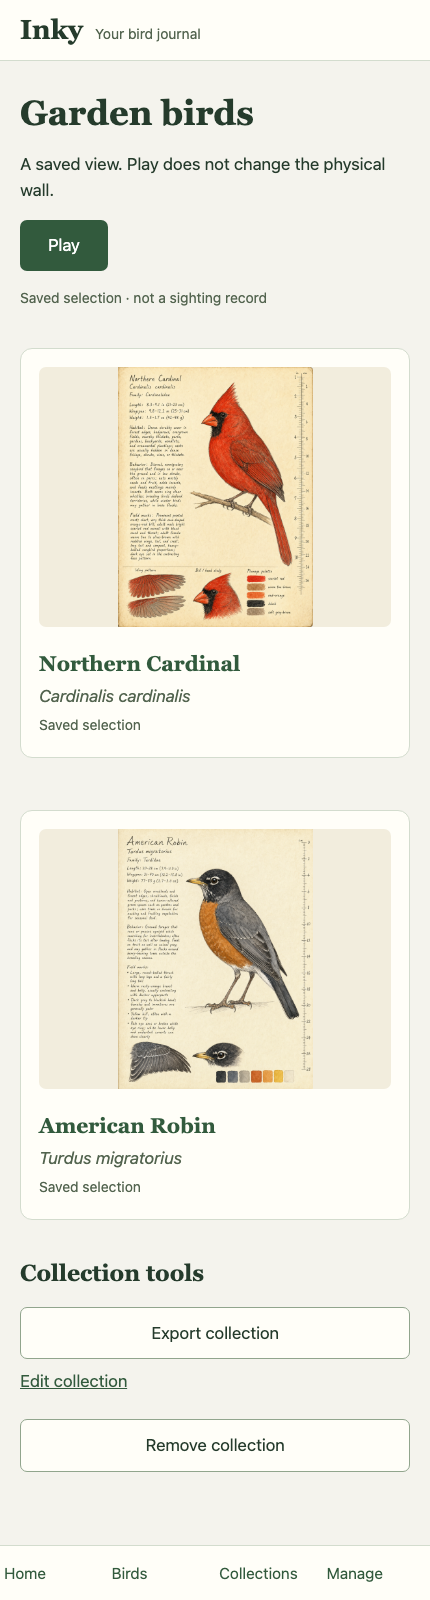
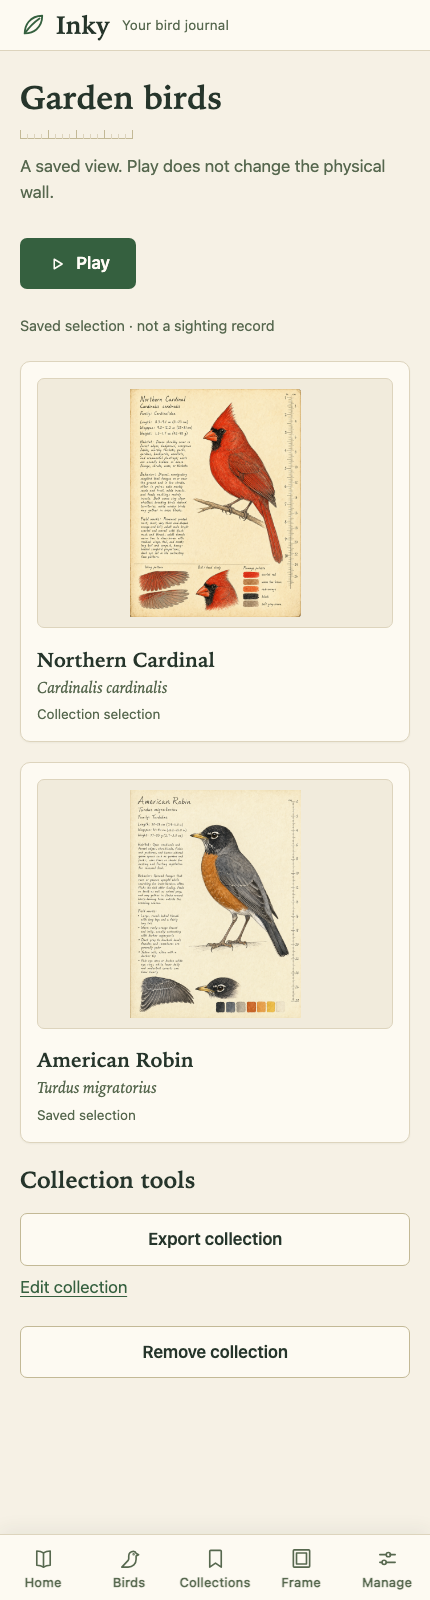
Lead sign-in with the linked provider and guide the first open
The account workflow now matches the strongest open-source pattern while
keeping every existing security semantic:

- When an identity is linked and the provider is ready, sign-in leads with
  one Continue button; the local password form moves behind an explicit
  disclosure and remains the recovery path. Without a ready provider, the
  password form leads unchanged, and setup is untouched. The shared
  stay-signed-in choice applies to both paths.
- A fresh art-only start greets the owner with three guided paths: browse
  the artwork, keep birds close, connect sources. The welcome reads only
  server state (no known birds and no enabled sources), so an upgrade with
  retained history keeps the quiet empty state instead.
- Configuration problems surface everywhere: Home, Birds and Collections
  show one attention banner naming stopped plates, candidates to review,
  failed deliveries and failed source checks, linking to Manage where the
  existing app-managed settings and operations can fix them.
- Birds gains a segmented scope control, headings carry a small plate-ruler
  ornament drawn from the plates' own inch rulers, and the two public
  journal screenshots are refreshed from this interface with public plates
  and manual demo selections.

Chromium, WebKit and Firefox acceptance, the full pytest suite, ruff and
mypy pass on this head.

diff --git a/src/inky_bird_frame/web/journal.js b/src/inky_bird_frame/web/journal.js
@@ -137,6 +137,34 @@ export async function openJournal(ui, message = '') {
     }
     document.querySelector('header').after(nav);
     if (message) main.append(el('p', message, 'connection'));
+    if (
+      management.available &&
+      !['manage', 'sources', 'work', 'notifications', 'frame', 'operation', 'candidate'].includes(
+        area,
+      )
+    ) {
+      const parts = [];
+      const stopped = management.work.needs_attention.length;
+      if (stopped) parts.push(stopped === 1 ? '1 plate stopped' : stopped + ' plates stopped');
+      const review = management.work.in_review.candidates.length;
+      if (review)
+        parts.push(review === 1 ? '1 candidate to review' : review + ' candidates to review');
+      if (management.notifications.dead_letters) parts.push('notification delivery failing');
+      const failing = management.sources.filter(
+        (source) => source.enabled && source.status === 'error',
+      ).length;
+      if (failing)
+        parts.push(failing === 1 ? 'a source check failed' : failing + ' source checks failed');
+      if (parts.length) {
+        const banner = link('', 'manage', {}, 'attention-banner');
+        banner.append(
+          icon('alert'),
+          el('span', parts.join(' · ')),
+          el('span', 'Open Manage', 'attention-action'),
+        );
+        main.append(banner);
+      }
+    }
   }
   function empty(title, text) {
     const section = el('section', '', 'journal-card');
@@ -144,7 +172,9 @@ export async function openJournal(ui, message = '') {
     return section;
   }
   function playLink(key) {
-    return link('Play', 'frame', { view: key }, 'primary-link');
+    const node = link('Play', 'frame', { view: key }, 'primary-link');
+    node.prepend(icon('play'));
+    return node;
   }
   const management = data.management;
   const operationNames = {
@@ -286,41 +316,62 @@ export async function openJournal(ui, message = '') {
         note(evidence(featured)),
       );
       const actions = el('div', '', 'home-actions');
-      const play = playLink('current');
-      play.prepend(icon('play'));
-      actions.append(play, link('Browse your birds', 'birds'));
+      actions.append(playLink('current'), link('Browse your birds', 'birds'));
       main.append(hero, caption, actions);
-    } else
-      main.append(
-        empty(
-          'Make room for a bird',
-          'No approved plate is in your current selection yet. Browse available artwork or open a saved collection.',
-        ),
-        link('Browse available artwork', 'birds', { scope: 'art' }, 'primary-link'),
-      );
+    } else {
+      const fresh =
+        !data.birds.some((bird) => bird.known) &&
+        (!management.available || !management.sources.some((source) => source.enabled));
+      if (fresh) {
+        main.append(el('h2', 'Welcome. Start wherever you like.'));
+        const start = el('div', '', 'manage-grid start-paths');
+        for (const [title, text, glyph, page, extra] of [
+          [
+            'Browse the artwork',
+            'Reviewed field-journal plates are ready to enjoy now. Browsing never records a sighting.',
+            'birds',
+            'birds',
+            { scope: 'art' },
+          ],
+          [
+            'Keep birds close',
+            'Save Favorites and build collections for the wall and the Frame view.',
+            'collections',
+            'collections',
+            {},
+          ],
+          [
+            'Connect your birds',
+            'Add eBird, a feeder or a sound station when you are ready. Artwork works without them.',
+            'manage',
+            'sources',
+            {},
+          ],
+        ]) {
+          const card = link('', page, extra, 'journal-card');
+          card.append(icon(glyph), el('h2', title), el('p', text));
+          start.append(card);
+        }
+        main.append(start);
+      } else
+        main.append(
+          empty(
+            'Make room for a bird',
+            'No approved plate is in your current selection yet. Browse available artwork or open a saved collection.',
+          ),
+          link('Browse available artwork', 'birds', { scope: 'art' }, 'primary-link'),
+        );
+    }
     if (management.available) {
-      const work = management.work;
-      const attention =
-        work.needs_attention.length +
-        work.in_review.candidates.length +
-        management.notifications.dead_letters;
-      const attentionLink = link(
-        attention ? attention + ' items need attention' : 'Check sources and plate work',
-        'manage',
-        {},
-        'attention-link',
-      );
-      attentionLink.prepend(icon(attention ? 'alert' : 'manage'));
-      main.append(attentionLink);
       if (!management.sources.some((source) => source.enabled))
         main.append(
           note('No sources selected for refresh. Artwork and saved collections still work.'),
         );
-      else if (!work.complete)
+      else if (!management.work.complete)
         main.append(
           note(
             'Discovery is ' +
-              work.discovery_status +
+              management.work.discovery_status +
               '. The last saved selection may be out of date.',
           ),
         );
@@ -340,13 +391,18 @@ export async function openJournal(ui, message = '') {
         ? 'Approved local plates. Browsing does not add a sighting or change your wall.'
         : 'Birds in retained history, current observations or saved collections. A missing plate does not erase a bird.',
     );
-    main.append(
-      link(
-        artScope ? 'Show your birds' : 'Browse available artwork',
-        'birds',
-        artScope ? {} : { scope: 'art' },
-      ),
-    );
+    const scopes = el('div', '', 'segment');
+    scopes.setAttribute('role', 'navigation');
+    scopes.setAttribute('aria-label', 'Bird scope');
+    for (const [label, active, extra] of [
+      ['Your birds', !artScope, {}],
+      ['Available artwork', artScope, { scope: 'art' }],
+    ]) {
+      const option = link(label, 'birds', extra, '');
+      if (active) option.setAttribute('aria-current', 'page');
+      scopes.append(option);
+    }
+    main.append(scopes);
     const label = el('label', 'Find a bird');
     label.htmlFor = 'bird-search';
     const search = el('input');

diff --git a/src/inky_bird_frame/web/app.css b/src/inky_bird_frame/web/app.css
@@ -214,10 +214,28 @@ details p { font-size: 15px; overflow-wrap: anywhere; }
 pre { padding: 14px; background: var(--paper-sunken); border: 1px solid var(--line); border-radius: var(--radius-small); white-space: pre-wrap; overflow-wrap: anywhere; }
 code { font-size: 13px; overflow-wrap: anywhere; }
 
+/* ---- Plate-ruler ornament: echoes the inch rulers on the plates ---- */
+
+h1::after {
+  content: "";
+  display: block;
+  width: 113px;
+  height: 9px;
+  margin-top: 12px;
+  background:
+    repeating-linear-gradient(90deg, var(--line-strong) 0 1px, transparent 1px 28px) left top / 113px 9px no-repeat,
+    repeating-linear-gradient(90deg, var(--line) 0 1px, transparent 1px 7px) left 4px / 113px 5px no-repeat,
+    linear-gradient(var(--line-strong), var(--line-strong)) left bottom / 113px 1px no-repeat;
+}
+.presenting h1::after { display: none; }
+
 /* ---- Welcome and sign-in ---- */
 
 .auth-mark { display: block; width: 52px; height: 52px; margin: 14px 0 4px; color: var(--accent); stroke-width: 1.3; }
 .doc-link { display: inline-flex; align-items: center; gap: 8px; min-height: 44px; margin-top: 14px; }
+.sso-button { min-height: 54px; font-size: 17.5px; }
+.auth-alt { margin-top: 22px; border-bottom: 0; border-top: 1px solid var(--line); }
+.auth-alt form { margin-top: 8px; }
 
 /* ---- Journal shell and navigation ---- */
 
@@ -375,6 +393,44 @@ a.journal-card:hover h2, a.bird-card:hover h2 { color: var(--accent); }
 }
 .primary-link:hover { background: var(--accent-strong); color: var(--accent-ink); }
 .attention-link { display: inline-flex; align-items: center; gap: 8px; min-height: 48px; padding-block: 14px; font-weight: 600; }
+.attention-banner {
+  display: flex;
+  flex-wrap: wrap;
+  align-items: center;
+  gap: 8px 10px;
+  margin: 2px 0 20px;
+  padding: 12px 14px;
+  background: var(--gold-soft);
+  border: 1px solid var(--gold-line);
+  border-left-width: 4px;
+  border-radius: var(--radius-small);
+  color: var(--ink);
+  text-decoration: none;
+  font-size: 15.5px;
+}
+.attention-banner .icon { color: var(--gold-ink); }
+.attention-banner .attention-action { margin-left: auto; font-weight: 650; color: var(--accent); text-decoration: underline; text-underline-offset: 3px; }
+.segment {
+  display: inline-flex;
+  margin-block: 6px 4px;
+  border: 1px solid var(--line-strong);
+  border-radius: 999px;
+  background: var(--paper-raised);
+  overflow: hidden;
+}
+.segment a {
+  display: inline-flex;
+  align-items: center;
+  min-height: 44px;
+  padding: 8px 18px;
+  text-decoration: none;
+  color: var(--ink-soft);
+  font-weight: 550;
+  font-size: 15.5px;
+}
+.segment a + a { border-left: 1px solid var(--line); }
+.segment [aria-current] { background: var(--accent); color: var(--accent-ink); font-weight: 650; }
+.start-paths { margin-top: 10px; }
 
 .collection-title { font-size: 24px; font-weight: 700; display: block; margin-block: 12px; }
 

diff --git a/src/inky_bird_frame/web/app.js b/src/inky_bird_frame/web/app.js
@@ -333,13 +333,38 @@ function signIn(access, notice = '') {
       form.setAttribute('aria-busy', 'false');
     }
   });
-  if (setup || access.local_login) main.append(form);
-  else if (access.provider?.linked && access.provider?.ready) {
+  const ssoReady = !setup && access.provider?.linked && access.provider?.ready;
+  if (setup) main.append(form);
+  else if (ssoReady) {
+    // The linked provider is the everyday path, so it leads. The local
+    // password stays one disclosure away and remains the recovery path.
+    const sso = button(
+      'Continue with ' + access.provider.label,
+      async () => {
+        sso.disabled = true;
+        try {
+          await beginSSO('/v1/owner/oidc/start', remember.checked);
+        } catch (error) {
+          sso.disabled = false;
+          if (!main.contains(status)) main.append(status);
+          errorMessage(status, error.message);
+        }
+      },
+      'sso-button',
+    );
+    sso.prepend(icon('key'));
     const preferences = element('div');
     rememberField(preferences, access);
     preferences.querySelector('input').replaceWith(remember);
-    main.append(preferences, element('p', 'Use your linked single sign-on account.', 'hint'));
-  } else
+    main.append(sso, preferences);
+    if (access.local_login) {
+      const alt = element('details', '', 'auth-alt');
+      alt.append(element('summary', 'Sign in with your Inky password instead'));
+      alt.append(form);
+      main.append(alt);
+    } else main.append(element('p', 'Use your linked single sign-on account.', 'hint'));
+  } else if (access.local_login) main.append(form);
+  else
     main.append(
       element(
         'p',
@@ -347,20 +372,6 @@ function signIn(access, notice = '') {
         'notice',
       ),
     );
-  if (!setup && access.provider?.linked && access.provider?.ready) {
-    const sso = button('Sign in with ' + access.provider.label, async () => {
-      sso.disabled = true;
-      try {
-        await beginSSO('/v1/owner/oidc/start', remember.checked);
-      } catch (error) {
-        sso.disabled = false;
-        if (!main.contains(status)) main.append(status);
-        errorMessage(status, error.message);
-      }
-    });
-    sso.prepend(icon('key'));
-    main.append(sso);
-  }
   if (access.provider?.error) main.append(element('p', access.provider.error, 'error'));
   if (!setup)
     main.append(

diff --git a/docs/browser-access.md b/docs/browser-access.md
@@ -610,6 +610,11 @@ or use a separate callback route with access logging and tracing off. Keep
 ordinary status and error logs without these values. Do not enable OAuth debug
 payload logging on a live installation.
 
+When an identity is linked and the provider is ready, the sign-in page leads
+with Continue with your provider; the local password stays one step away
+behind "Sign in with your Inky password instead" and remains the recovery
+path. Without a ready linked provider, the password form leads unchanged.
+
 A provider outage disables the SSO button with an explanation. Local login
 works unless you deliberately chose SSO-only mode. Signing out of Inky revokes
 only that Inky login. It does not sign out other identity-service applications.
